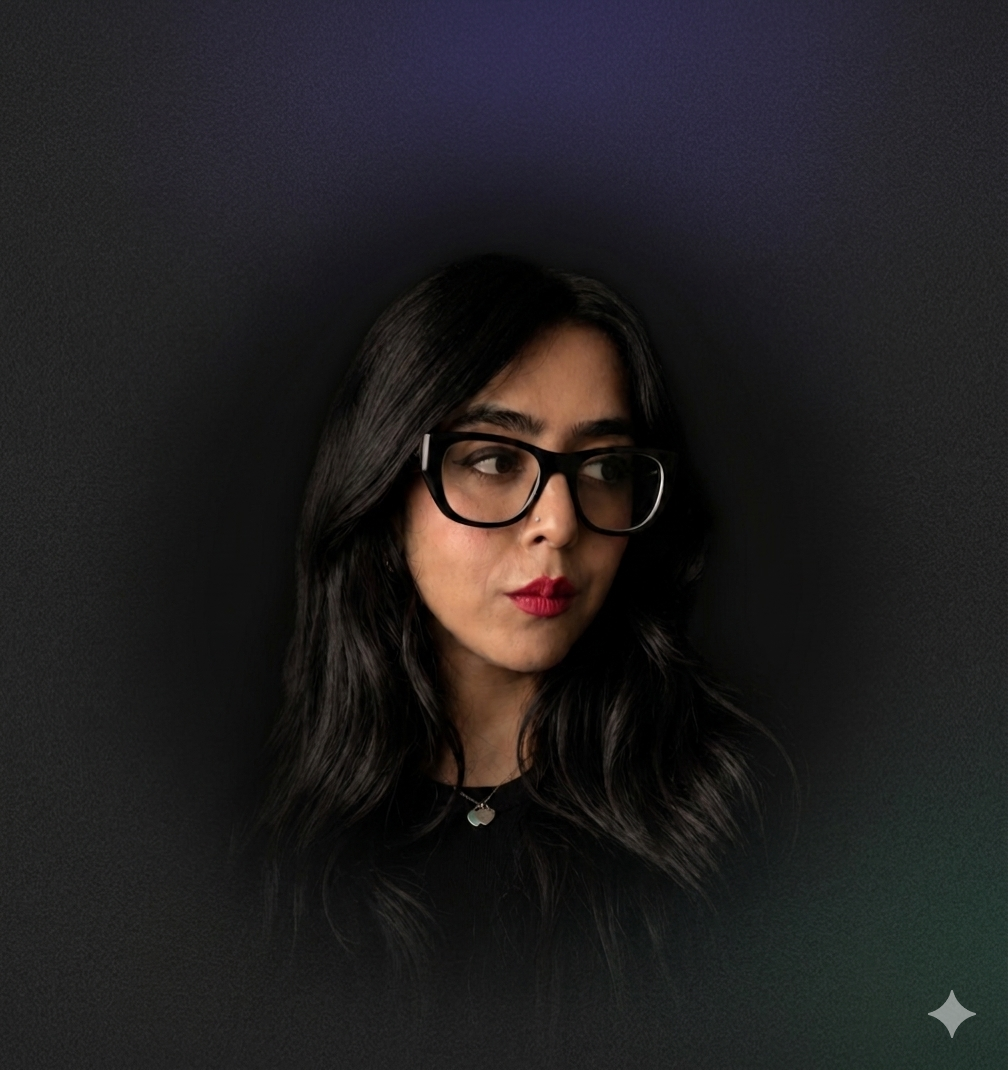
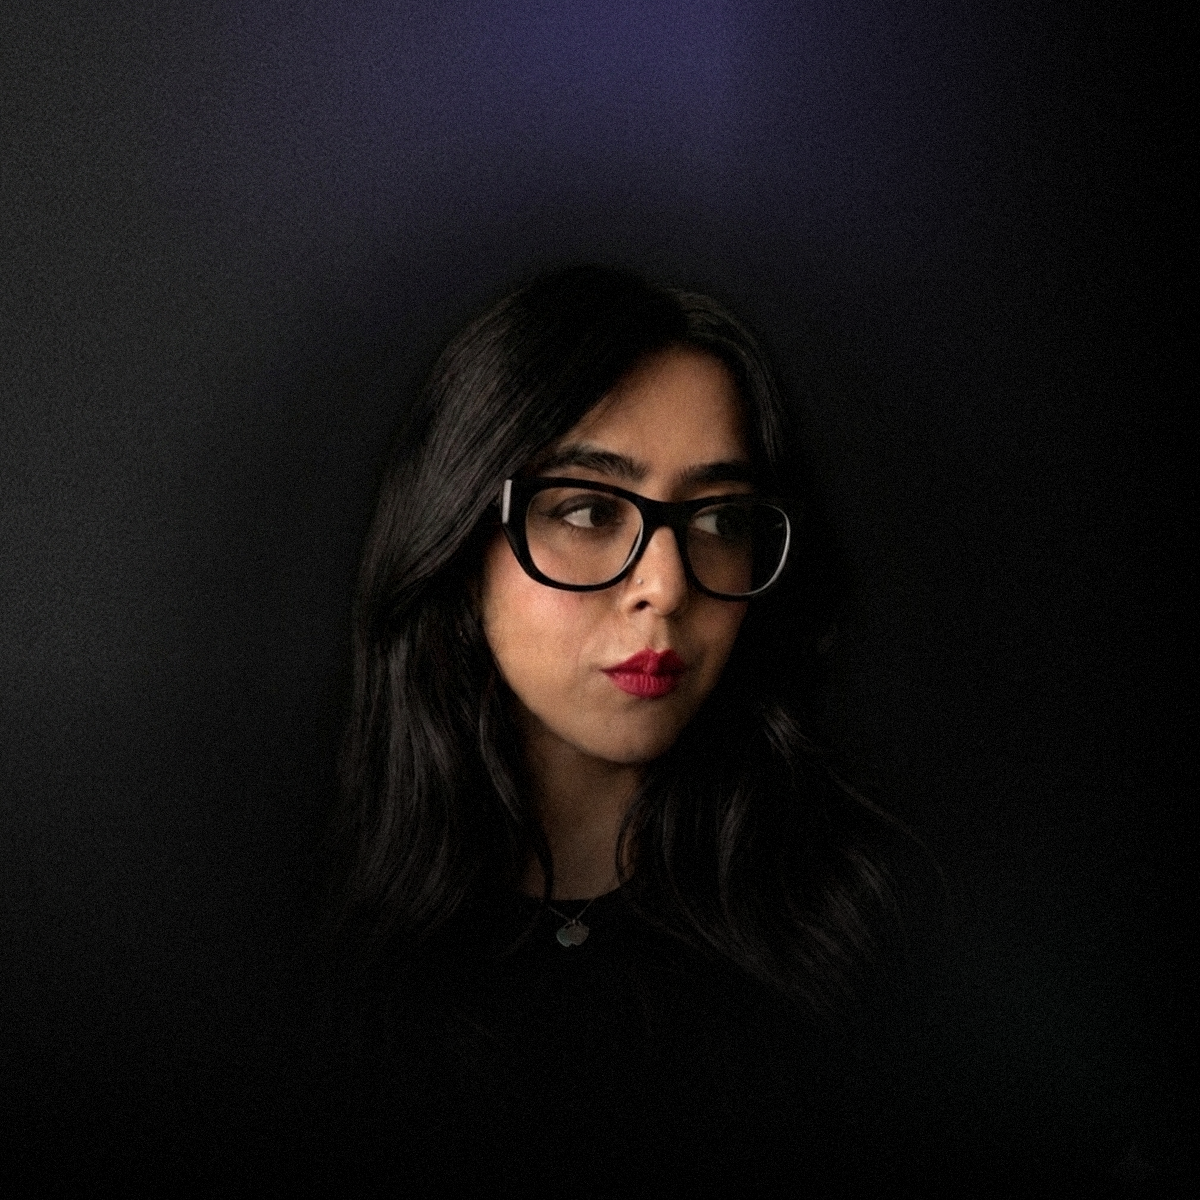
Processed headshot — grain, glows, vignette

diff --git a/index.html b/index.html
@@ -935,7 +935,7 @@
 
         <!-- Portrait -->
         <div class="hero-portrait">
-          <img src="assets/finalheadshot.png" alt="Aashna Sethi" />
+          <img src="assets/finalheadshot.jpg" alt="Aashna Sethi" />
         </div>
       </div>
     </div>
